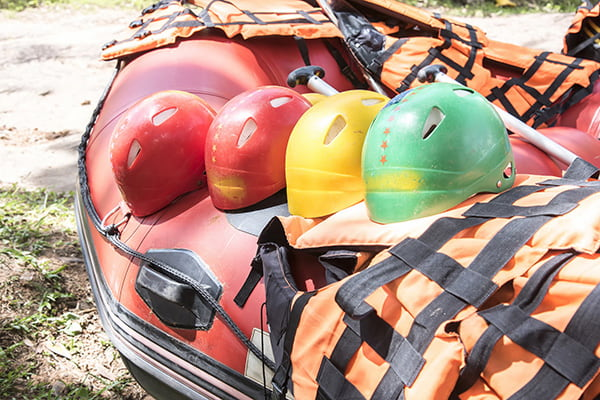
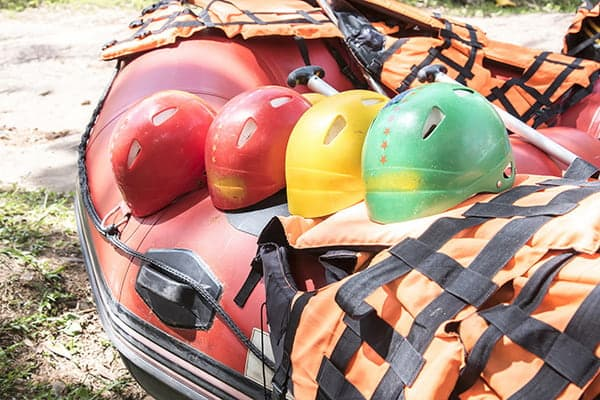
removed pictures not being used and had to make the pictures smaller in size (kb) to not exceed 500kb per page and i updated the renamed pictures on the trips.html page

diff --git a/wwr/trips.html b/wwr/trips.html
@@ -28,7 +28,7 @@
             <section class="trip_section_1">
                 <div>
                     <article class="trip_article">
-                        <img src="images/moab_ut.jpg" alt="Rafters hitting rapids" width="200" height="160">
+                        <img src="images/mesa_az_half_day.jpg" alt="Rafters hitting rapids" width="200" height="160">
                         <h3>Half day</h3>
                         <h2>Mesa, AZ</h2>
                         <p>Raft down the Salt River with a guide to enjoy wild horses, crazy rapids, calm spots, and meet new people as we experience the trip together. This is one of our most popular trips because it is shorter and people love that their a few more calm spots where they can enjoy the river and the wild horses, and dip their feet in!</p>
@@ -54,7 +54,7 @@
             <section class="trip_section_3">
                 <div>
                     <article class="trip_article">
-                        <img src="images/durango_co.jpg" alt="Rafters going down waterfall" width="200" height="140">
+                        <img src="images/mesa_az_full_day.jpg" alt="Rafters going down waterfall" width="200" height="140">
                         <h3>Full Day</h3>
                         <h2>Mesa, AZ</h2>
                         <p>Enjoy lunch on us and raft down the salt river while taking in the beauty! Many a time, rafters have spotted wild horeses and other animals enjoying the river. The rapids becomce intense in the afternoon and customers have said this is their favorite part! Enjoy swimming after lunch and get to know your fellow rafters!</p>
